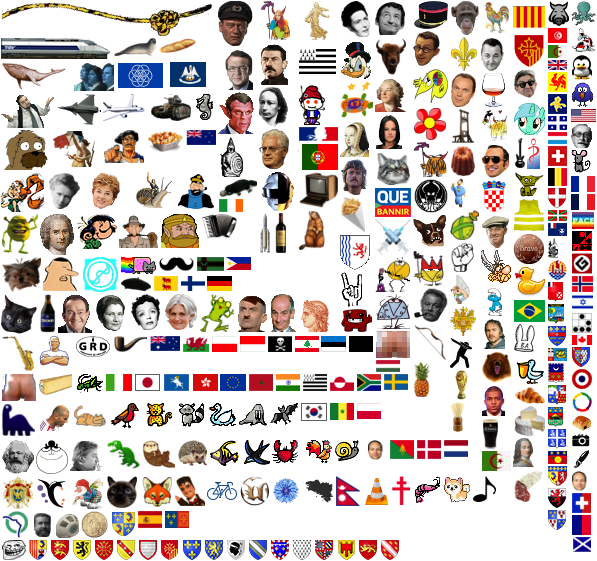
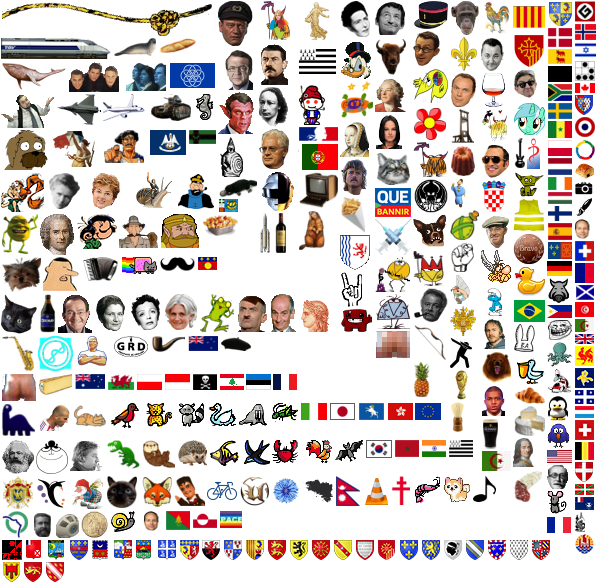
Add 2Be3 flair

diff --git a/flairs.css b/flairs.css
@@ -1,140 +1,141 @@
 .flair-20centimes { background-position: -80px -510px; width: 29px; height: 29px; }
-.flair-Alsace { background-position: -379px -539px; width: 22px; height: 22px; }
-.flair-Aquitaine { background-position: -357px -539px; width: 22px; height: 22px; }
-.flair-Auvergne { background-position: -335px -539px; width: 22px; height: 22px; }
-.flair-Bourgogne { background-position: -313px -539px; width: 22px; height: 22px; }
-.flair-Bretagne { background-position: -291px -539px; width: 22px; height: 22px; }
-.flair-Centre { background-position: -269px -539px; width: 22px; height: 22px; }
-.flair-Champagne { background-position: -247px -539px; width: 22px; height: 22px; }
-.flair-Corse { background-position: -225px -539px; width: 22px; height: 22px; }
+.flair-2Be3 { background-position: -68px -61px; width: 52px; height: 32px; }
+.flair-Alsace { background-position: -44px -561px; width: 22px; height: 22px; }
+.flair-Aquitaine { background-position: -22px -561px; width: 22px; height: 22px; }
+.flair-Auvergne { background-position: 0 -561px; width: 22px; height: 22px; }
+.flair-Bourgogne { background-position: -530px -539px; width: 22px; height: 22px; }
+.flair-Bretagne { background-position: -508px -539px; width: 22px; height: 22px; }
+.flair-Centre { background-position: -486px -539px; width: 22px; height: 22px; }
+.flair-Champagne { background-position: -464px -539px; width: 22px; height: 22px; }
+.flair-Corse { background-position: -442px -539px; width: 22px; height: 22px; }
 .flair-DavidGoodenough { background-position: 0 -93px; width: 55px; height: 36px; }
 .flair-DoubleVax { background-position: -374px -218px; width: 38px; height: 38px; }
-.flair-Franche { background-position: -203px -539px; width: 22px; height: 22px; }
-.flair-IDF { background-position: -181px -539px; width: 22px; height: 22px; }
+.flair-Franche { background-position: -420px -539px; width: 22px; height: 22px; }
+.flair-IDF { background-position: -398px -539px; width: 22px; height: 22px; }
 .flair-JeanPierrePernaut { background-position: -57px -293px; width: 36px; height: 41px; }
 .flair-JosdolfStaltler { background-position: -258px -43px; width: 31px; height: 43px; }
-.flair-Languedoc { background-position: -159px -539px; width: 22px; height: 22px; }
-.flair-Limousin { background-position: -137px -539px; width: 22px; height: 22px; }
-.flair-Lorraine { background-position: -115px -539px; width: 22px; height: 22px; }
-.flair-MPyrenees { background-position: -93px -539px; width: 22px; height: 22px; }
+.flair-Languedoc { background-position: -376px -539px; width: 22px; height: 22px; }
+.flair-Limousin { background-position: -354px -539px; width: 22px; height: 22px; }
+.flair-Lorraine { background-position: -332px -539px; width: 22px; height: 22px; }
+.flair-MPyrenees { background-position: -310px -539px; width: 22px; height: 22px; }
 .flair-Macronomicon { background-position: -217px -91px; width: 39px; height: 44px; }
-.flair-NPDC { background-position: -71px -539px; width: 22px; height: 22px; }
-.flair-Normandie { background-position: -49px -539px; width: 22px; height: 22px; }
-.flair-PACA { background-position: -27px -539px; width: 22px; height: 22px; }
-.flair-PDL { background-position: -570px -346px; width: 24px; height: 22px; }
-.flair-Picardie { background-position: -546px -509px; width: 22px; height: 22px; }
+.flair-NPDC { background-position: -288px -539px; width: 22px; height: 22px; }
+.flair-Normandie { background-position: -266px -539px; width: 22px; height: 22px; }
+.flair-PACA { background-position: -244px -539px; width: 22px; height: 22px; }
+.flair-PDL { background-position: -573px -94px; width: 24px; height: 22px; }
+.flair-Picardie { background-position: -222px -539px; width: 22px; height: 22px; }
 .flair-Picsou { background-position: -339px -40px; width: 33px; height: 40px; }
-.flair-Poitou { background-position: -546px -487px; width: 22px; height: 22px; }
-.flair-Rhone { background-position: -546px -465px; width: 22px; height: 22px; }
+.flair-Poitou { background-position: -200px -539px; width: 22px; height: 22px; }
+.flair-Rhone { background-position: -178px -539px; width: 22px; height: 22px; }
 .flair-RoiHyrule { background-position: -160px -213px; width: 40px; height: 36px; }
-.flair-S971 { background-position: -546px -450px; width: 22px; height: 15px; }
-.flair-S972 { background-position: -546px -428px; width: 22px; height: 22px; }
-.flair-S973 { background-position: -546px -406px; width: 22px; height: 22px; }
-.flair-S974 { background-position: -546px -384px; width: 22px; height: 22px; }
-.flair-S976 { background-position: -546px -362px; width: 22px; height: 22px; }
-.flair-T975 { background-position: -546px -347px; width: 22px; height: 15px; }
-.flair-T977 { background-position: -546px -325px; width: 22px; height: 22px; }
-.flair-T978 { background-position: -546px -303px; width: 22px; height: 22px; }
-.flair-T986 { background-position: -546px -281px; width: 22px; height: 22px; }
-.flair-T987 { background-position: -546px -259px; width: 22px; height: 22px; }
-.flair-T988 { background-position: -546px -237px; width: 13px; height: 22px; }
-.flair-TAAF { background-position: -546px -222px; width: 22px; height: 15px; }
+.flair-S971 { background-position: -196px -256px; width: 22px; height: 15px; }
+.flair-S972 { background-position: -156px -539px; width: 22px; height: 22px; }
+.flair-S973 { background-position: -134px -539px; width: 22px; height: 22px; }
+.flair-S974 { background-position: -112px -539px; width: 22px; height: 22px; }
+.flair-S976 { background-position: -90px -539px; width: 22px; height: 22px; }
+.flair-T975 { background-position: -217px -198px; width: 22px; height: 15px; }
+.flair-T977 { background-position: -68px -539px; width: 22px; height: 22px; }
+.flair-T978 { background-position: -46px -539px; width: 22px; height: 22px; }
+.flair-T986 { background-position: -24px -539px; width: 22px; height: 22px; }
+.flair-T987 { background-position: -573px -533px; width: 22px; height: 22px; }
+.flair-T988 { background-position: -573px -511px; width: 13px; height: 22px; }
+.flair-TAAF { background-position: -573px -496px; width: 22px; height: 15px; }
 .flair-UFCQueBannir { background-position: -374px -187px; width: 38px; height: 31px; }
-.flair-YAFrance { background-position: -570px -193px; width: 26px; height: 18px; }
-.flair-YAFranceVGE { background-position: -570px -175px; width: 26px; height: 18px; }
-.flair-YEuskadi { background-position: -546px -209px; width: 22px; height: 13px; }
-.flair-YSavoie { background-position: -546px -187px; width: 22px; height: 22px; }
-.flair-ZAFrancophonie { background-position: -570px -391px; width: 23px; height: 22px; }
-.flair-ZBBelgique { background-position: -546px -167px; width: 22px; height: 20px; }
-.flair-ZBSVUE { background-position: -219px -373px; width: 28px; height: 19px; }
-.flair-ZBSuisse { background-position: -546px -145px; width: 22px; height: 22px; }
-.flair-ZBTLuxembourg { background-position: -546px -131px; width: 22px; height: 14px; }
-.flair-ZBTQuebec { background-position: -546px -115px; width: 22px; height: 16px; }
-.flair-ZBelbru { background-position: -546px -93px; width: 22px; height: 22px; }
-.flair-ZBelwal { background-position: -546px -71px; width: 22px; height: 22px; }
-.flair-ZCanada { background-position: -570px -334px; width: 24px; height: 12px; }
-.flair-ZUK { background-position: -546px -59px; width: 22px; height: 12px; }
-.flair-ZUS { background-position: -570px -108px; width: 27px; height: 15px; }
+.flair-YAFrance { background-position: -272px -373px; width: 26px; height: 18px; }
+.flair-YAFranceVGE { background-position: -546px -516px; width: 26px; height: 18px; }
+.flair-YEuskadi { background-position: -573px -483px; width: 22px; height: 13px; }
+.flair-YSavoie { background-position: -573px -461px; width: 22px; height: 22px; }
+.flair-ZAFrancophonie { background-position: -573px -139px; width: 23px; height: 22px; }
+.flair-ZBBelgique { background-position: -573px -441px; width: 22px; height: 20px; }
+.flair-ZBSVUE { background-position: -414px -402px; width: 28px; height: 19px; }
+.flair-ZBSuisse { background-position: -573px -419px; width: 22px; height: 22px; }
+.flair-ZBTLuxembourg { background-position: -573px -405px; width: 22px; height: 14px; }
+.flair-ZBTQuebec { background-position: -573px -389px; width: 22px; height: 16px; }
+.flair-ZBelbru { background-position: -573px -367px; width: 22px; height: 22px; }
+.flair-ZBelwal { background-position: -573px -345px; width: 22px; height: 22px; }
+.flair-ZCanada { background-position: -573px -82px; width: 24px; height: 12px; }
+.flair-ZUK { background-position: -573px -333px; width: 22px; height: 12px; }
+.flair-ZUS { background-position: -546px -449px; width: 27px; height: 15px; }
 .flair-ZZChaton { background-position: 0 -293px; width: 38px; height: 42px; }
 .flair-ZZZZZZbaguette { background-position: -157px -37px; width: 40px; height: 19px; }
 .flair-ZZZZZZcamembert { background-position: -512px -405px; width: 34px; height: 32px; }
 .flair-ZZZZZZchatf { background-position: -374px -152px; width: 38px; height: 35px; }
 .flair-ZZZZZZchatl { background-position: -104px -475px; width: 35px; height: 35px; }
-.flair-ZZZZZZchauvesouris { background-position: -268px -402px; width: 31px; height: 24px; }
+.flair-ZZZZZZchauvesouris { background-position: -333px -439px; width: 31px; height: 24px; }
 .flair-ZZZZZZchiot { background-position: -441px -475px; width: 30px; height: 28px; }
 .flair-ZZZZZZcoq { background-position: -302px -439px; width: 31px; height: 26px; }
 .flair-ZZZZZZcrabe { background-position: -271px -439px; width: 31px; height: 26px; }
 .flair-ZZZZZZcrevette { background-position: -411px -475px; width: 30px; height: 29px; }
-.flair-ZZZZZZcriquet { background-position: -73px -373px; width: 31px; height: 21px; }
+.flair-ZZZZZZcriquet { background-position: -268px -402px; width: 31px; height: 21px; }
 .flair-ZZZZZZcroissant { background-position: -512px -385px; width: 34px; height: 20px; }
 .flair-ZZZZZZcygne { background-position: -205px -402px; width: 32px; height: 26px; }
 .flair-ZZZZZZdinosaure1 { background-position: 0 -402px; width: 36px; height: 37px; }
 .flair-ZZZZZZdinosaure2 { background-position: -105px -439px; width: 36px; height: 31px; }
-.flair-ZZZZZZescargot { background-position: -333px -439px; width: 28px; height: 24px; }
+.flair-ZZZZZZescargot { background-position: -109px -510px; width: 28px; height: 24px; }
 .flair-ZZZZZZguepard { background-position: -140px -402px; width: 33px; height: 26px; }
-.flair-ZZZZZZhacker { background-position: -570px -312px; width: 24px; height: 22px; }
+.flair-ZZZZZZhacker { background-position: -573px -60px; width: 24px; height: 22px; }
 .flair-ZZZZZZhippocampe { background-position: -193px -93px; width: 21px; height: 29px; }
 .flair-ZZZZZZhirondelle { background-position: -240px -439px; width: 31px; height: 27px; }
 .flair-ZZZZZZmorse { background-position: -237px -402px; width: 31px; height: 25px; }
-.flair-ZZZZZZoiseau { background-position: -570px -81px; width: 27px; height: 27px; }
+.flair-ZZZZZZoiseau { background-position: -546px -422px; width: 27px; height: 27px; }
 .flair-ZZZZZZoiseau2 { background-position: -107px -402px; width: 33px; height: 28px; }
 .flair-ZZZZZZpelican { background-position: -512px -357px; width: 34px; height: 28px; }
-.flair-ZZZZZZpingouin { background-position: -570px -54px; width: 25px; height: 27px; }
-.flair-ZZZZZZpoisson { background-position: -570px -27px; width: 27px; height: 27px; }
+.flair-ZZZZZZpingouin { background-position: -546px -395px; width: 25px; height: 27px; }
+.flair-ZZZZZZpoisson { background-position: -546px -368px; width: 27px; height: 27px; }
 .flair-ZZZZZZpoisson2 { background-position: -208px -439px; width: 32px; height: 28px; }
-.flair-ZZZZZZpoulpe { background-position: -570px 0; width: 27px; height: 27px; }
+.flair-ZZZZZZpoulpe { background-position: -546px -341px; width: 27px; height: 27px; }
 .flair-ZZZZZZratonlaveur { background-position: -173px -402px; width: 32px; height: 26px; }
-.flair-ZZZZZZsouris { background-position: -570px -149px; width: 24px; height: 26px; }
+.flair-ZZZZZZsouris { background-position: -546px -490px; width: 24px; height: 26px; }
 .flair-ZZZZZZvin { background-position: -273px -212px; width: 14px; height: 42px; }
-.flair-ZZZZZpace { background-position: -570px -211px; width: 25px; height: 19px; }
-.flair-ZZZZZtroll { background-position: 0 -539px; width: 27px; height: 22px; }
+.flair-ZZZZZpace { background-position: -218px -510px; width: 25px; height: 19px; }
+.flair-ZZZZZtroll { background-position: -546px -319px; width: 27px; height: 22px; }
 .flair-ZZZZalgU00e9rie { background-position: -480px -450px; width: 32px; height: 22px; }
-.flair-ZZZZalgerie { background-position: -546px -44px; width: 22px; height: 15px; }
-.flair-ZZZZphilippines { background-position: -225px -256px; width: 27px; height: 15px; }
-.flair-ZZZZtunisie { background-position: -546px -27px; width: 22px; height: 17px; }
-.flair-ZZsanglier { background-position: -546px 0; width: 24px; height: 27px; }
-.flair-Zallemagne { background-position: -206px -275px; width: 27px; height: 17px; }
-.flair-Zbelleile { background-position: -163px -510px; width: 27px; height: 19px; }
-.flair-Zcoree { background-position: -299px -402px; width: 29px; height: 20px; }
-.flair-Zcornouaille { background-position: -162px -373px; width: 29px; height: 19px; }
-.flair-Zecosse { background-position: -570px -536px; width: 22px; height: 17px; }
-.flair-Zespagne { background-position: -136px -510px; width: 27px; height: 19px; }
-.flair-Zfinlande { background-position: -179px -275px; width: 27px; height: 17px; }
-.flair-Zhongrie { background-position: -374px -359px; width: 27px; height: 14px; }
-.flair-Zirlande { background-position: -217px -198px; width: 27px; height: 15px; }
-.flair-Zisrael { background-position: -570px -293px; width: 24px; height: 19px; }
-.flair-Zjapon { background-position: -133px -373px; width: 29px; height: 19px; }
-.flair-Zlatverie { background-position: -195px -256px; width: 30px; height: 16px; }
+.flair-ZZZZalgerie { background-position: -573px -318px; width: 22px; height: 15px; }
+.flair-ZZZZphilippines { background-position: -546px -304px; width: 27px; height: 15px; }
+.flair-ZZZZtunisie { background-position: -573px -301px; width: 22px; height: 17px; }
+.flair-ZZsanglier { background-position: -546px -277px; width: 24px; height: 27px; }
+.flair-Zallemagne { background-position: -546px -260px; width: 27px; height: 17px; }
+.flair-Zbelleile { background-position: -546px -241px; width: 27px; height: 19px; }
+.flair-Zcoree { background-position: -364px -439px; width: 29px; height: 20px; }
+.flair-Zcornouaille { background-position: -357px -402px; width: 29px; height: 19px; }
+.flair-Zecosse { background-position: -573px -284px; width: 22px; height: 17px; }
+.flair-Zespagne { background-position: -546px -222px; width: 27px; height: 19px; }
+.flair-Zfinlande { background-position: -546px -205px; width: 27px; height: 17px; }
+.flair-Zhongrie { background-position: -546px -191px; width: 27px; height: 14px; }
+.flair-Zirlande { background-position: -546px -176px; width: 27px; height: 15px; }
+.flair-Zisrael { background-position: -573px -41px; width: 24px; height: 19px; }
+.flair-Zjapon { background-position: -328px -402px; width: 29px; height: 19px; }
+.flair-Zlatverie { background-position: -187px -129px; width: 30px; height: 16px; }
 .flair-Znepal { background-position: -334px -475px; width: 27px; height: 32px; }
-.flair-Znorvege { background-position: -570px -275px; width: 24px; height: 18px; }
-.flair-Zparis { background-position: -570px -514px; width: 22px; height: 22px; }
-.flair-Zpaysbas { background-position: -442px -439px; width: 27px; height: 19px; }
-.flair-Zpaysdegalle { background-position: -181px -335px; width: 29px; height: 18px; }
-.flair-Zpologne { background-position: -355px -402px; width: 27px; height: 18px; }
-.flair-Zsenegal { background-position: -328px -402px; width: 27px; height: 19px; }
-.flair-Zsuede { background-position: -382px -373px; width: 27px; height: 18px; }
+.flair-Znorvege { background-position: -573px -23px; width: 24px; height: 18px; }
+.flair-Zparis { background-position: -573px -262px; width: 22px; height: 22px; }
+.flair-Zpaysbas { background-position: -546px -157px; width: 27px; height: 19px; }
+.flair-Zpaysdegalle { background-position: -106px -373px; width: 29px; height: 18px; }
+.flair-Zpologne { background-position: -546px -139px; width: 27px; height: 18px; }
+.flair-Zsenegal { background-position: -546px -120px; width: 27px; height: 19px; }
+.flair-Zsuede { background-position: -546px -102px; width: 27px; height: 18px; }
 .flair-abitbol { background-position: -217px 0; width: 41px; height: 47px; }
-.flair-accordeon { background-position: -200px -213px; width: 39px; height: 26px; }
-.flair-afriquedusud { background-position: -355px -373px; width: 27px; height: 19px; }
+.flair-accordeon { background-position: -81px -256px; width: 39px; height: 26px; }
+.flair-afriquedusud { background-position: -546px -83px; width: 27px; height: 19px; }
 .flair-airbus { background-position: -102px -93px; width: 47px; height: 32px; }
 .flair-alizee { background-position: -374px -114px; width: 29px; height: 38px; }
 .flair-amiralpoitou { background-position: -258px 0; width: 39px; height: 43px; }
 .flair-amiralpoitou2 { background-position: -480px -108px; width: 30px; height: 36px; }
 .flair-ananas { background-position: -412px -361px; width: 20px; height: 37px; }
-.flair-anarchisme { background-position: -347px -335px; width: 27px; height: 18px; }
+.flair-anarchisme { background-position: -546px -65px; width: 27px; height: 18px; }
 .flair-anne { background-position: -339px -119px; width: 35px; height: 39px; }
 .flair-arc { background-position: -412px -324px; width: 35px; height: 37px; }
 .flair-ariane { background-position: -258px -212px; width: 15px; height: 42px; }
 .flair-asterix { background-position: -480px -249px; width: 32px; height: 35px; }
-.flair-australie { background-position: -148px -335px; width: 33px; height: 18px; }
-.flair-bearn { background-position: -152px -275px; width: 27px; height: 17px; }
+.flair-australie { background-position: -73px -373px; width: 33px; height: 18px; }
+.flair-bearn { background-position: -546px -48px; width: 27px; height: 17px; }
 .flair-beaumarchais { background-position: -374px -76px; width: 36px; height: 38px; }
 .flair-beauvoir { background-position: -339px 0; width: 35px; height: 40px; }
 .flair-bebel { background-position: -480px -214px; width: 30px; height: 35px; }
-.flair-beret { background-position: -119px -275px; width: 33px; height: 17px; }
+.flair-beret { background-position: -219px -335px; width: 33px; height: 17px; }
 .flair-bison { background-position: -374px -38px; width: 33px; height: 38px; }
 .flair-blaireau { background-position: -449px -401px; width: 17px; height: 32px; }
-.flair-blum { background-position: -570px -123px; width: 23px; height: 26px; }
+.flair-blum { background-position: -546px -464px; width: 23px; height: 26px; }
 .flair-bonnetane { background-position: -512px -323px; width: 26px; height: 34px; }
 .flair-brassens { background-position: -412px -287px; width: 37px; height: 37px; }
 .flair-bresil { background-position: -512px -297px; width: 34px; height: 26px; }
@@ -150,7 +151,7 @@
 .flair-chimay { background-position: -38px -293px; width: 19px; height: 41px; }
 .flair-chocolat { background-position: -512px -232px; width: 34px; height: 34px; }
 .flair-chouffe { background-position: -69px -475px; width: 35px; height: 35px; }
-.flair-cocarde { background-position: -570px -368px; width: 23px; height: 23px; }
+.flair-cocarde { background-position: -573px -116px; width: 23px; height: 23px; }
 .flair-cognac { background-position: -480px -72px; width: 27px; height: 36px; }
 .flair-coluche { background-position: -480px -36px; width: 27px; height: 36px; }
 .flair-comte { background-position: -37px -373px; width: 36px; height: 23px; }
@@ -162,8 +163,8 @@
 .flair-cthulu { background-position: -412px -178px; width: 37px; height: 36px; }
 .flair-dab { background-position: -449px -337px; width: 24px; height: 32px; }
 .flair-daftpunk { background-position: -258px -170px; width: 38px; height: 42px; }
-.flair-danemark { background-position: -415px -439px; width: 27px; height: 21px; }
-.flair-dauphine { background-position: -109px -510px; width: 27px; height: 27px; }
+.flair-danemark { background-position: -546px -27px; width: 27px; height: 21px; }
+.flair-dauphine { background-position: -546px 0; width: 27px; height: 27px; }
 .flair-deFunes { background-position: -269px -293px; width: 28px; height: 40px; }
 .flair-deFunesSurprise { background-position: -269px -293px; width: 28px; height: 40px; }
 .flair-deFunesSurprise:hover { background-position: -235px -293px; width: 34px; height: 40px; }
@@ -171,13 +172,13 @@
 .flair-devinplombier { background-position: -412px -141px; width: 37px; height: 37px; }
 .flair-didi { background-position: 0 -256px; width: 42px; height: 37px; }
 .flair-edriseur { background-position: -55px -510px; width: 25px; height: 29px; }
-.flair-estonie { background-position: -320px -335px; width: 27px; height: 18px; }
+.flair-estonie { background-position: -245px -373px; width: 27px; height: 18px; }
 .flair-fab { background-position: -339px -80px; width: 35px; height: 39px; }
 .flair-faisceau { background-position: -449px -305px; width: 28px; height: 32px; }
 .flair-fleur { background-position: -412px -104px; width: 36px; height: 37px; }
 .flair-fleurbleue { background-position: -270px -475px; width: 32px; height: 32px; }
 .flair-framasoft { background-position: -34px -475px; width: 35px; height: 35px; }
-.flair-francosuisse { background-position: -570px -492px; width: 22px; height: 22px; }
+.flair-francosuisse { background-position: -573px -240px; width: 22px; height: 22px; }
 .flair-frites { background-position: -339px -196px; width: 27px; height: 38px; }
 .flair-gabuzomeu { background-position: -412px -67px; width: 37px; height: 37px; }
 .flair-gadget { background-position: -118px -213px; width: 42px; height: 36px; }
@@ -187,24 +188,24 @@
 .flair-giletjaune { background-position: -512px -198px; width: 34px; height: 34px; }
 .flair-gobelin { background-position: -512px -170px; width: 34px; height: 28px; }
 .flair-gojira { background-position: 0 -61px; width: 68px; height: 32px; }
-.flair-grammar { background-position: -570px -252px; width: 24px; height: 23px; }
-.flair-grd { background-position: -74px -335px; width: 38px; height: 23px; }
+.flair-grammar { background-position: -573px 0; width: 24px; height: 23px; }
+.flair-grd { background-position: -112px -335px; width: 38px; height: 23px; }
 .flair-grenouille { background-position: -198px -293px; width: 37px; height: 40px; }
 .flair-grnx { background-position: -72px -402px; width: 35px; height: 29px; }
-.flair-groenland { background-position: -328px -373px; width: 27px; height: 19px; }
+.flair-groenland { background-position: -191px -510px; width: 27px; height: 19px; }
 .flair-guignol { background-position: -173px -475px; width: 33px; height: 32px; }
 .flair-guillotine { background-position: -449px -108px; width: 26px; height: 36px; }
 .flair-guiness { background-position: -480px -417px; width: 19px; height: 33px; }
 .flair-guitare { background-position: -512px -136px; width: 14px; height: 34px; }
-.flair-gwennhadu { background-position: -301px -373px; width: 27px; height: 19px; }
-.flair-hacker2 { background-position: -570px -230px; width: 24px; height: 22px; }
+.flair-gwennhadu { background-position: -447px -439px; width: 27px; height: 19px; }
+.flair-hacker2 { background-position: 0 -539px; width: 24px; height: 22px; }
 .flair-haddock { background-position: -177px -171px; width: 40px; height: 39px; }
 .flair-herisson { background-position: -176px -439px; width: 32px; height: 28px; }
-.flair-hk { background-position: -191px -373px; width: 28px; height: 19px; }
+.flair-hk { background-position: -386px -402px; width: 28px; height: 19px; }
 .flair-imperial { background-position: 0 -475px; width: 34px; height: 35px; }
-.flair-inconnus { background-position: -68px -61px; width: 49px; height: 32px; }
-.flair-inde { background-position: -274px -373px; width: 27px; height: 19px; }
-.flair-italie { background-position: -104px -373px; width: 29px; height: 19px; }
+.flair-inconnus { background-position: -120px -61px; width: 49px; height: 32px; }
+.flair-inde { background-position: -420px -439px; width: 27px; height: 19px; }
+.flair-italie { background-position: -299px -402px; width: 29px; height: 19px; }
 .flair-jamy { background-position: -412px -30px; width: 29px; height: 37px; }
 .flair-jaures { background-position: -29px -510px; width: 26px; height: 29px; }
 .flair-jeanne { background-position: 0 -171px; width: 48px; height: 42px; }
@@ -212,35 +213,35 @@
 .flair-jospin { background-position: -258px -128px; width: 32px; height: 42px; }
 .flair-karlmarx { background-position: 0 -439px; width: 35px; height: 36px; }
 .flair-kepi { background-position: -412px 0; width: 37px; height: 30px; }
-.flair-legion { background-position: -388px -439px; width: 27px; height: 21px; }
+.flair-legion { background-position: -164px -510px; width: 27px; height: 21px; }
 .flair-lepers { background-position: -449px -72px; width: 30px; height: 36px; }
-.flair-liban { background-position: -293px -335px; width: 27px; height: 18px; }
+.flair-liban { background-position: -218px -373px; width: 27px; height: 18px; }
 .flair-liberte { background-position: -52px -129px; width: 50px; height: 39px; }
 .flair-licorne { background-position: -512px -102px; width: 34px; height: 34px; }
-.flair-lordon { background-position: -361px -439px; width: 27px; height: 22px; }
-.flair-lordonflou { background-position: -570px -470px; width: 18px; height: 22px; }
+.flair-lordon { background-position: -137px -510px; width: 27px; height: 22px; }
+.flair-lordonflou { background-position: -573px -218px; width: 18px; height: 22px; }
 .flair-louisemichel { background-position: -258px -86px; width: 32px; height: 42px; }
-.flair-louisiane { background-position: -165px -61px; width: 42px; height: 27px; }
+.flair-louisiane { background-position: -145px -129px; width: 42px; height: 27px; }
 .flair-loutre { background-position: -141px -439px; width: 35px; height: 31px; }
 .flair-lys { background-position: -449px -36px; width: 30px; height: 36px; }
 .flair-maite { background-position: -91px -171px; width: 43px; height: 41px; }
 .flair-mariecurie { background-position: -48px -171px; width: 43px; height: 41px; }
 .flair-marmotte { background-position: -297px -209px; width: 29px; height: 42px; }
-.flair-maroc { background-position: -247px -373px; width: 27px; height: 19px; }
+.flair-maroc { background-position: -393px -439px; width: 27px; height: 19px; }
 .flair-marsu { background-position: 0 0; width: 217px; height: 37px; }
 .flair-mbappe { background-position: -480px -384px; width: 31px; height: 33px; }
 .flair-mecronchon { background-position: -217px -47px; width: 37px; height: 44px; }
 .flair-melenchon { background-position: -512px -68px; width: 27px; height: 34px; }
 .flair-metal { background-position: -339px -271px; width: 24px; height: 37px; }
 .flair-minitel { background-position: -297px -171px; width: 42px; height: 38px; }
-.flair-monaco { background-position: -238px -335px; width: 28px; height: 18px; }
-.flair-moustache { background-position: -157px -256px; width: 38px; height: 16px; }
-.flair-mpropre { background-position: -36px -335px; width: 38px; height: 32px; }
+.flair-monaco { background-position: -163px -373px; width: 28px; height: 18px; }
+.flair-moustache { background-position: -158px -256px; width: 38px; height: 16px; }
+.flair-mpropre { background-position: -74px -335px; width: 38px; height: 32px; }
 .flair-naquitaine { background-position: -339px -234px; width: 32px; height: 37px; }
-.flair-newzealand { background-position: -184px -129px; width: 33px; height: 19px; }
+.flair-newzealand { background-position: -186px -335px; width: 33px; height: 19px; }
 .flair-nsfw { background-position: -374px -330px; width: 37px; height: 29px; }
 .flair-nsfw:hover { background-position: 0 -373px; width: 37px; height: 29px; }
-.flair-nyancat { background-position: -119px -256px; width: 38px; height: 19px; }
+.flair-nyancat { background-position: -120px -256px; width: 38px; height: 19px; }
 .flair-obelix { background-position: -449px -273px; width: 22px; height: 32px; }
 .flair-occitanie { background-position: -512px -34px; width: 34px; height: 34px; }
 .flair-ornithorynque { background-position: -217px -178px; width: 41px; height: 20px; }
@@ -248,23 +249,23 @@
 .flair-otarie { background-position: -112px -37px; width: 45px; height: 21px; }
 .flair-ours { background-position: -480px -351px; width: 32px; height: 33px; }
 .flair-pascalbrutal { background-position: -42px -256px; width: 39px; height: 37px; }
-.flair-peinture { background-position: -570px -448px; width: 20px; height: 22px; }
+.flair-peinture { background-position: -573px -196px; width: 20px; height: 22px; }
 .flair-penelope { background-position: -163px -293px; width: 35px; height: 40px; }
 .flair-perceval { background-position: -480px -318px; width: 26px; height: 33px; }
 .flair-philippe { background-position: -339px -158px; width: 29px; height: 38px; }
-.flair-photo { background-position: -570px -432px; width: 22px; height: 16px; }
+.flair-photo { background-position: -573px -180px; width: 22px; height: 16px; }
 .flair-piaf { background-position: -128px -293px; width: 35px; height: 40px; }
-.flair-pipe { background-position: -112px -335px; width: 36px; height: 20px; }
-.flair-pirate { background-position: -266px -335px; width: 27px; height: 18px; }
-.flair-planete { background-position: -117px -61px; width: 48px; height: 28px; }
+.flair-pipe { background-position: -150px -335px; width: 36px; height: 20px; }
+.flair-pirate { background-position: -191px -373px; width: 27px; height: 18px; }
+.flair-planete { background-position: -169px -61px; width: 48px; height: 28px; }
 .flair-poing { background-position: -449px -241px; width: 27px; height: 32px; }
-.flair-pologne { background-position: -210px -335px; width: 28px; height: 18px; }
+.flair-pologne { background-position: -135px -373px; width: 28px; height: 18px; }
 .flair-portugal { background-position: -297px -142px; width: 42px; height: 29px; }
 .flair-potion { background-position: -449px -209px; width: 31px; height: 32px; }
-.flair-poutine { background-position: -145px -129px; width: 39px; height: 24px; }
+.flair-poutine { background-position: -200px -213px; width: 39px; height: 24px; }
 .flair-profshadoko { background-position: -374px -293px; width: 37px; height: 37px; }
 .flair-provence { background-position: -512px 0; width: 34px; height: 34px; }
-.flair-quake { background-position: -81px -256px; width: 38px; height: 37px; }
+.flair-quake { background-position: -36px -335px; width: 38px; height: 37px; }
 .flair-rafale { background-position: -55px -93px; width: 47px; height: 33px; }
 .flair-ratp { background-position: 0 -510px; width: 29px; height: 29px; }
 .flair-renard { background-position: -139px -475px; width: 34px; height: 33px; }
@@ -288,6 +289,6 @@
 .flair-ut { background-position: -238px -475px; width: 32px; height: 32px; }
 .flair-veil { background-position: -93px -293px; width: 35px; height: 40px; }
 .flair-velo { background-position: -206px -475px; width: 32px; height: 32px; }
-.flair-viennoiserie { background-position: -570px -413px; width: 22px; height: 19px; }
+.flair-viennoiserie { background-position: -573px -161px; width: 22px; height: 19px; }
 .flair-vlc { background-position: -361px -475px; width: 28px; height: 31px; }
 .flair-voltaire { background-position: -512px -437px; width: 33px; height: 33px; }
